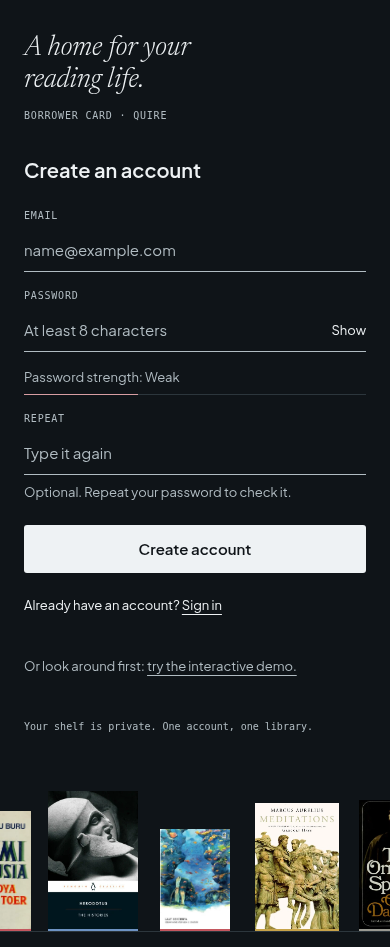
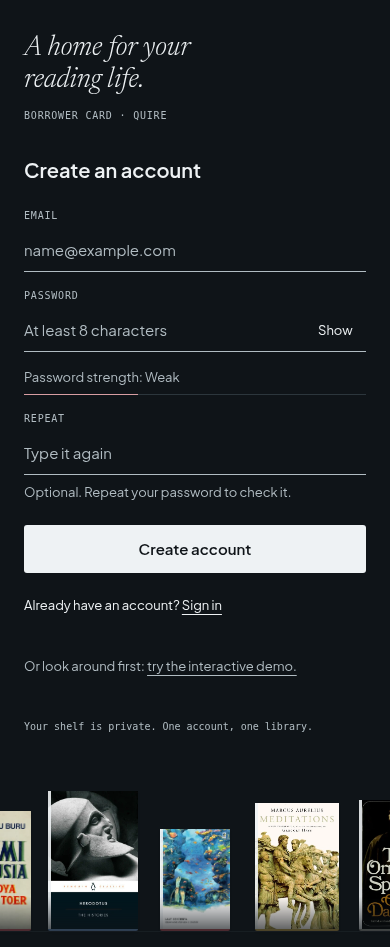
fix(auth): one jacket set real shelves and a faded seam

diff --git a/src/styles/auth.css b/src/styles/auth.css
@@ -371,7 +371,7 @@
 
   .auth-shelves {
     display: grid;
-    grid-template-columns: repeat(4, minmax(0, 1fr));
+    grid-template-columns: repeat(3, minmax(0, 1fr));
     align-items: stretch;
     row-gap: var(--space-32);
     width: 100%;
@@ -389,5 +389,81 @@
   .auth-page .primary {
     animation: none;
     transition: none;
+  }
+}
+
+/* the wall reads as printed jackets, not pasted rectangles */
+.auth-jacket {
+  position: relative;
+  box-shadow: inset -7px 0 9px -7px rgb(0 0 0 / 45%);
+}
+
+.auth-jacket::before {
+  content: "";
+  position: absolute;
+  inset: 0 auto 0 0;
+  width: 3px;
+  background: currentColor;
+  opacity: 0.9;
+}
+
+/* the wall fades into the paper instead of ending on a hard seam */
+.auth-cover-wall {
+  mask-image: linear-gradient(90deg, transparent 0, #000 12%, #000 100%);
+}
+
+@media (min-width: 960px) {
+  .auth-page {
+    grid-template-columns: 48fr 52fr;
+  }
+
+  .auth-cover-wall {
+    padding-left: var(--space-24);
+  }
+}
+
+/* on a phone the band is cut on purpose: fade the bottom edge and keep taps big */
+@media (max-width: 959px) {
+  .auth-cover-wall {
+    mask-image: linear-gradient(180deg, #000 0, #000 72%, transparent 100%);
+  }
+
+  .auth-reveal,
+  .auth-forgot,
+  .auth-switch-action {
+    min-height: 44px;
+    display: inline-flex;
+    align-items: center;
+  }
+}
+
+/* nine jackets fill three equal shelves; no row ends on a stub */
+@media (min-width: 960px) {
+  .auth-shelves {
+    row-gap: var(--space-40);
+  }
+
+  .auth-cover {
+    align-items: end;
+  }
+
+  /* the class colour is a spine, never a stripe across the foot */
+  .auth-jacket {
+    border-bottom: 0;
+  }
+}
+
+/* jackets stand on the rule: shared radius, a contact shadow, no floating line ends */
+.auth-jacket {
+  border-radius: 2px;
+  box-shadow:
+    inset -7px 0 9px -7px rgb(0 0 0 / 45%),
+    0 2px 3px -1px rgb(0 0 0 / 30%);
+}
+
+@media (min-width: 960px) {
+  .auth-shelves {
+    margin-left: 0;
+    width: 100%;
   }
 }

diff --git a/tests/e2e/auth.spec.ts b/tests/e2e/auth.spec.ts
@@ -186,7 +186,7 @@ test("the form and cover wall fit all requested widths", async ({ page }) => {
       if (!workspace || !wall) throw new Error("Auth layout missing");
       await expect(page.locator(".auth-cover-wall")).toHaveAttribute("aria-hidden", "true");
       await expect(page.locator('.auth-cover-wall img:not([alt=""])')).toHaveCount(0);
-      await expect(page.locator(".auth-cover-wall img")).toHaveCount(12);
+      await expect(page.locator(".auth-cover-wall img")).toHaveCount(9);
       if (width < 960) {
         expect(wall.y).toBeGreaterThanOrEqual(workspace.y + workspace.height);
         expect(wall.x).toBe(0);
@@ -196,14 +196,14 @@ test("the form and cover wall fit all requested widths", async ({ page }) => {
           await page.locator(".auth-cover-wall").evaluate((el) => getComputedStyle(el).overflow),
         ).toBe("hidden");
       } else {
-        expect(workspace.width / width).toBeCloseTo(0.46, 2);
+        expect(workspace.width / width).toBeCloseTo(0.48, 2);
         expect(wall.x).toBeCloseTo(workspace.width);
-        await expect(page.locator(".auth-cover:visible")).toHaveCount(12);
+        await expect(page.locator(".auth-cover:visible")).toHaveCount(9);
         expect(
           await page
             .locator(".auth-shelves")
             .evaluate((el) => getComputedStyle(el).gridTemplateColumns.split(" ").length),
-        ).toBe(4);
+        ).toBe(3);
       }
       if (width === 320 && mode === "signup") {
         await settleArtwork(page);

diff --git a/src/features/auth/CoverWall.tsx b/src/features/auth/CoverWall.tsx
@@ -8,9 +8,6 @@ const jackets = [
   ["middle-waves", "waves", "800"],
   ["middle-room", "room", "800"],
   ["lower-walden", "walden", "800"],
-  ["lower-laut", "laut", "800"],
-  ["lower-histories", "histories", "900"],
-  ["lower-bumi", "bumi", "800"],
 ] as const;
 
 export function CoverWall() {

diff --git a/BRIEF.md b/BRIEF.md
@@ -1,52 +1,69 @@
-antislop active: during (global preference). Build with the rules applied; do not stop to ask.
+antislop active: during (global preference). Do not stop to ask.
 
-# Task: catalogue lookups that do not collapse (#54) (branch feat/catalogue-resilience)
+# Task: sign in and sign up worth looking at (#57) (branch feat/auth-v2)
 
-Worktree: this directory, base `main`.
+Worktree: this directory, base `main`. Read `docs/AUTH_ONBOARDING_BRIEF.md` for the current contract, then
+replace its visual direction with the one below. Keep every behaviour: sign in, sign up, reset link,
+strength and mismatch, demo entry, first-run tour, keyboard path, `?auth=signup`.
 
-## Diagnosis (measured today, do not re-litigate)
+You own `src/features/auth/**`, `src/styles/auth.css`, `src/features/demo/DemoSearch.tsx` only if a link
+needs rewording, and `tests/e2e/auth.spec.ts`. Do not touch `src/features/nav/**`, `src/features/shelf/**`,
+`src/features/reading/**`, `src/lib/**`, `package.json`.
 
-- `https://www.googleapis.com/books/v1/volumes?q=isbn:9786020788036` returns **429**, quota exceeded for the
-  day, and `&country=US`, `books.googleapis.com` and the keyless variants all return the same 429.
-- `https://openlibrary.org/isbn/9786020788036.json` returns **404**; `search.json?q=isbn:` finds 0, and a
-  title search finds 0. Indonesian commercial editions are largely absent from Open Library.
-- `https://books.google.com/books?vid=ISBN9786020788036` returns **200** and its `<title>` is
-  `Dari dalam kubur: sebuah novel - Soe Tjen Marching - Google Buku`.
+## The verdict
 
-So: the API quota dies daily, Open Library never had the book, and the HTML page still knows it. The app
-currently shows two red boxes and gives up.
+The owner says the current page is still not good and has no references. So: stop imitating a SaaS login.
+Three references to borrow from, and what exactly to borrow:
 
-## Build
+- **Readwise**: the quiet. One narrow column, a large serif line, no card, no shadow, small print at the foot.
+- **Airbnb**: the split. One side is the product itself, not a stock photo of a library.
+- **Linear**: the restraint. Nothing decorative that is not doing a job.
 
-1. **A fourth source.** Add a server-side lookup through a proxy, because books.google.com sends no CORS
-   headers:
-   - `vite.config.ts`: `server.proxy` entry for `/gb` -> `https://books.google.com` (changeOrigin, rewrite
-     the prefix away).
-   - `src/lib/catalogueHtml.ts`: fetch `/gb/books?vid=ISBN<isbn>`, parse the `<title>` into
-     `{ title, author }` (the shape is `<title> - <author> - Google Buku`), and return null when the page is
-     the "no results" page. Keep the parser small and tested against three fixtures: a normal page, a page
-     with no author, and the no-result page.
-2. **Order of attempts** in `src/lib/catalog.ts`: Google Books API -> Open Library ISBN -> Open Library
-   search -> Google Books HTML (ISBN only). Each failure is silent except the last.
-3. **Partial results are results.** If the HTML fallback finds a title, show it as a candidate with the ISBN
-   already filled, labelled `Google Books (metadata only)`, and let the user add pages and publisher.
-4. **One honest error, not two.** If every source fails, show a single panel: what was tried, and one
-   primary action `Enter it manually` that opens the manual form with the ISBN prefilled.
-5. Keep the existing rate-limit wording for the API case but do not surface it when a later source worked.
+## The direction
+
+**Delete the photograph and the floating white card.** The page is paper from edge to edge, the form sits
+directly on it, and the product becomes the artwork: a wall of the real covers already bundled in
+`public/covers/` (bumi, histories, laut, meditations, origin, pride, and the rest), standing on thin shelf
+rules with their class colours as spines. No stock photo, no rounded card, no shadow.
+
+Desktop (>= 960px): two columns, 46/54. Left: form. Right: the cover wall, 4 columns of jackets of
+unequal height, each standing on a 1px rule, the rules running the full column width, a 2px class colour
+strip at the foot of each jacket. The wall is decorative but real: `aria-hidden="true"`, images with empty
+alt, and no more than 12 covers so it stays cheap.
+
+Mobile (< 960px): the form first, comfortable margins, then a single horizontal band of 5 covers bleeding
+to both edges below the form, half cut by the viewport, clipped with `overflow: hidden`. The band must not
+push the submit button below the fold.
+
+## The form
+
+- A serif line at the top: `A home for your reading life.` at 34/38 on desktop, 28/32 on mobile. Below it,
+  one small mono line: `BORROWER CARD · QUIRE`.
+- Heading `Sign in` / `Create an account` in sans, 20px, not competing with the serif line.
+- Fields: label in mono 10px tracked, input with a 1px bottom rule, 44px tall, focus grows the rule to 2px
+  in the class colour, error text under the field with a 1px left rule.
+- Primary button: full width of the column, 48px, ink fill, 3px radius. Pending prints
+  `Signing in...` / `Creating account...` with a 1px moving rule.
+- Under the button: `Forgot your password?` on the left and `No account yet? Create one` on the right, in
+  one row on desktop, stacked on mobile.
+- Then one quiet line, not a box: `Or look around first: try the interactive demo.` The demo link keeps its
+  behaviour (`?demo=1#/today`).
+- Foot of the column, 10px mono, 55% ink: `Your shelf is private. One account, one library.`
 
 ## Rules
 
-- Tokens only, radius at most 3, English copy, no em dash, contrast 7:1 in all six themes.
-- Tests: parser fixtures, the attempt order with injected fetchers, "later source wins means no error is
-  shown", and the manual action prefilling the ISBN.
+- Tokens only, radius at most 3, English copy, no em dash, contrast at least 7:1 in all six themes for
+  every text element you render, including the foot line.
+- 320, 390, 768, 1024, 1440 with no horizontal scroll.
+- Tests: `tests/e2e/auth.spec.ts` must pass on the new markup (update selectors honestly, do not weaken the
+  contrast check: it must still sample every text element in the form column and the foot line).
 - `npm run gate` must pass.
 
 ## Evidence
 
-`docs/evidence/catalogue-resilience/` with the real lookup of 9786020788036 through each layer (curl output
-per source), a screenshot of the candidate found via HTML, a screenshot of the single error panel, and the
-gate output.
+`docs/evidence/auth-v2/` with screenshots of sign in and sign up at 390 and 1280 in shelf-light and
+oxford-dark, one 320px shot, and the gate output.
 
 ## Git
 
-Conventional commits on `feat/catalogue-resilience`. Do not merge or push; report the branch.
+Conventional commits on `feat/auth-v2`. Do not merge or push; report the branch.
